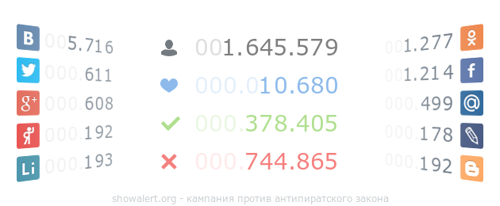
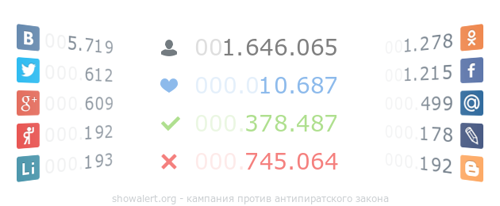
some updates

diff --git a/votes.js b/votes.js
@@ -1,1 +1,1 @@
-window.lk.votes(27238)
+window.lk.votes(27259)
